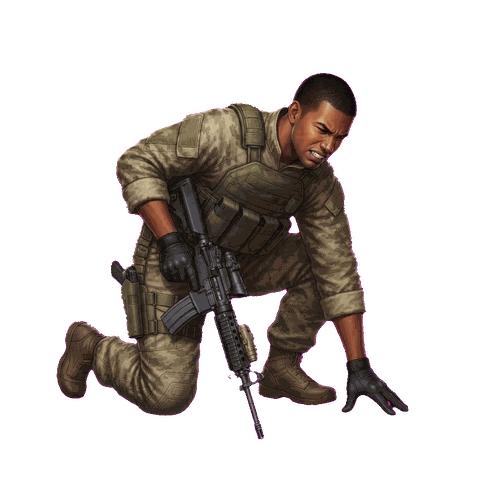
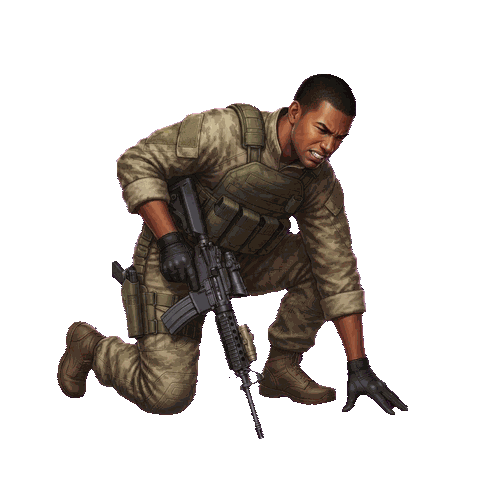
Definitive chroma-key fix: bleed opaque colors into transparent RGB before resize
The LANCZOS downsample was blending the magenta RGB stored in transparent
pixels back into sprite edges. Now opaque colors bleed into the transparent
zone first, then despill + 2px erosion after resize. Verified by pixel
count: 0 magenta edge pixels on all four sprites (was 151-691).

diff --git a/docs/index.html b/docs/index.html
@@ -17,11 +17,11 @@
   <div class="battle" aria-hidden="true">
     <div class="battle-env"></div>
     <div class="combatant-wrap soldier-wrap" id="soldierWrap">
-      <img class="combatant" id="soldierImg" src="assets/soldier.png?v=2" alt="" />
+      <img class="combatant" id="soldierImg" src="assets/soldier.png?v=3" alt="" />
       <div class="muzzle muzzle-soldier" id="muzzleSoldier"></div>
     </div>
     <div class="combatant-wrap enemy-wrap" id="enemyWrap">
-      <img class="combatant" id="enemyImg" src="assets/enemy.png?v=2" alt="" />
+      <img class="combatant" id="enemyImg" src="assets/enemy.png?v=3" alt="" />
       <div class="muzzle muzzle-enemy" id="muzzleEnemy"></div>
     </div>
     <div class="hit-vignette" id="hitVignette"></div>

diff --git a/docs/game.js b/docs/game.js
@@ -66,10 +66,10 @@ const soundBtn     = document.getElementById("soundBtn");
 const AUDIO = window.MemoryRushAudio || null; // synthesized SFX; game works without it
 
 const SPRITES = {
-  soldier: "assets/soldier.png?v=2",
-  soldierDown: "assets/soldier-down.png?v=2",
-  enemy: "assets/enemy.png?v=2",
-  enemyDown: "assets/enemy-down.png?v=2",
+  soldier: "assets/soldier.png?v=3",
+  soldierDown: "assets/soldier-down.png?v=3",
+  enemy: "assets/enemy.png?v=3",
+  enemyDown: "assets/enemy-down.png?v=3",
 };
 let spritesPreloaded = false;
 function preloadSprites() {
